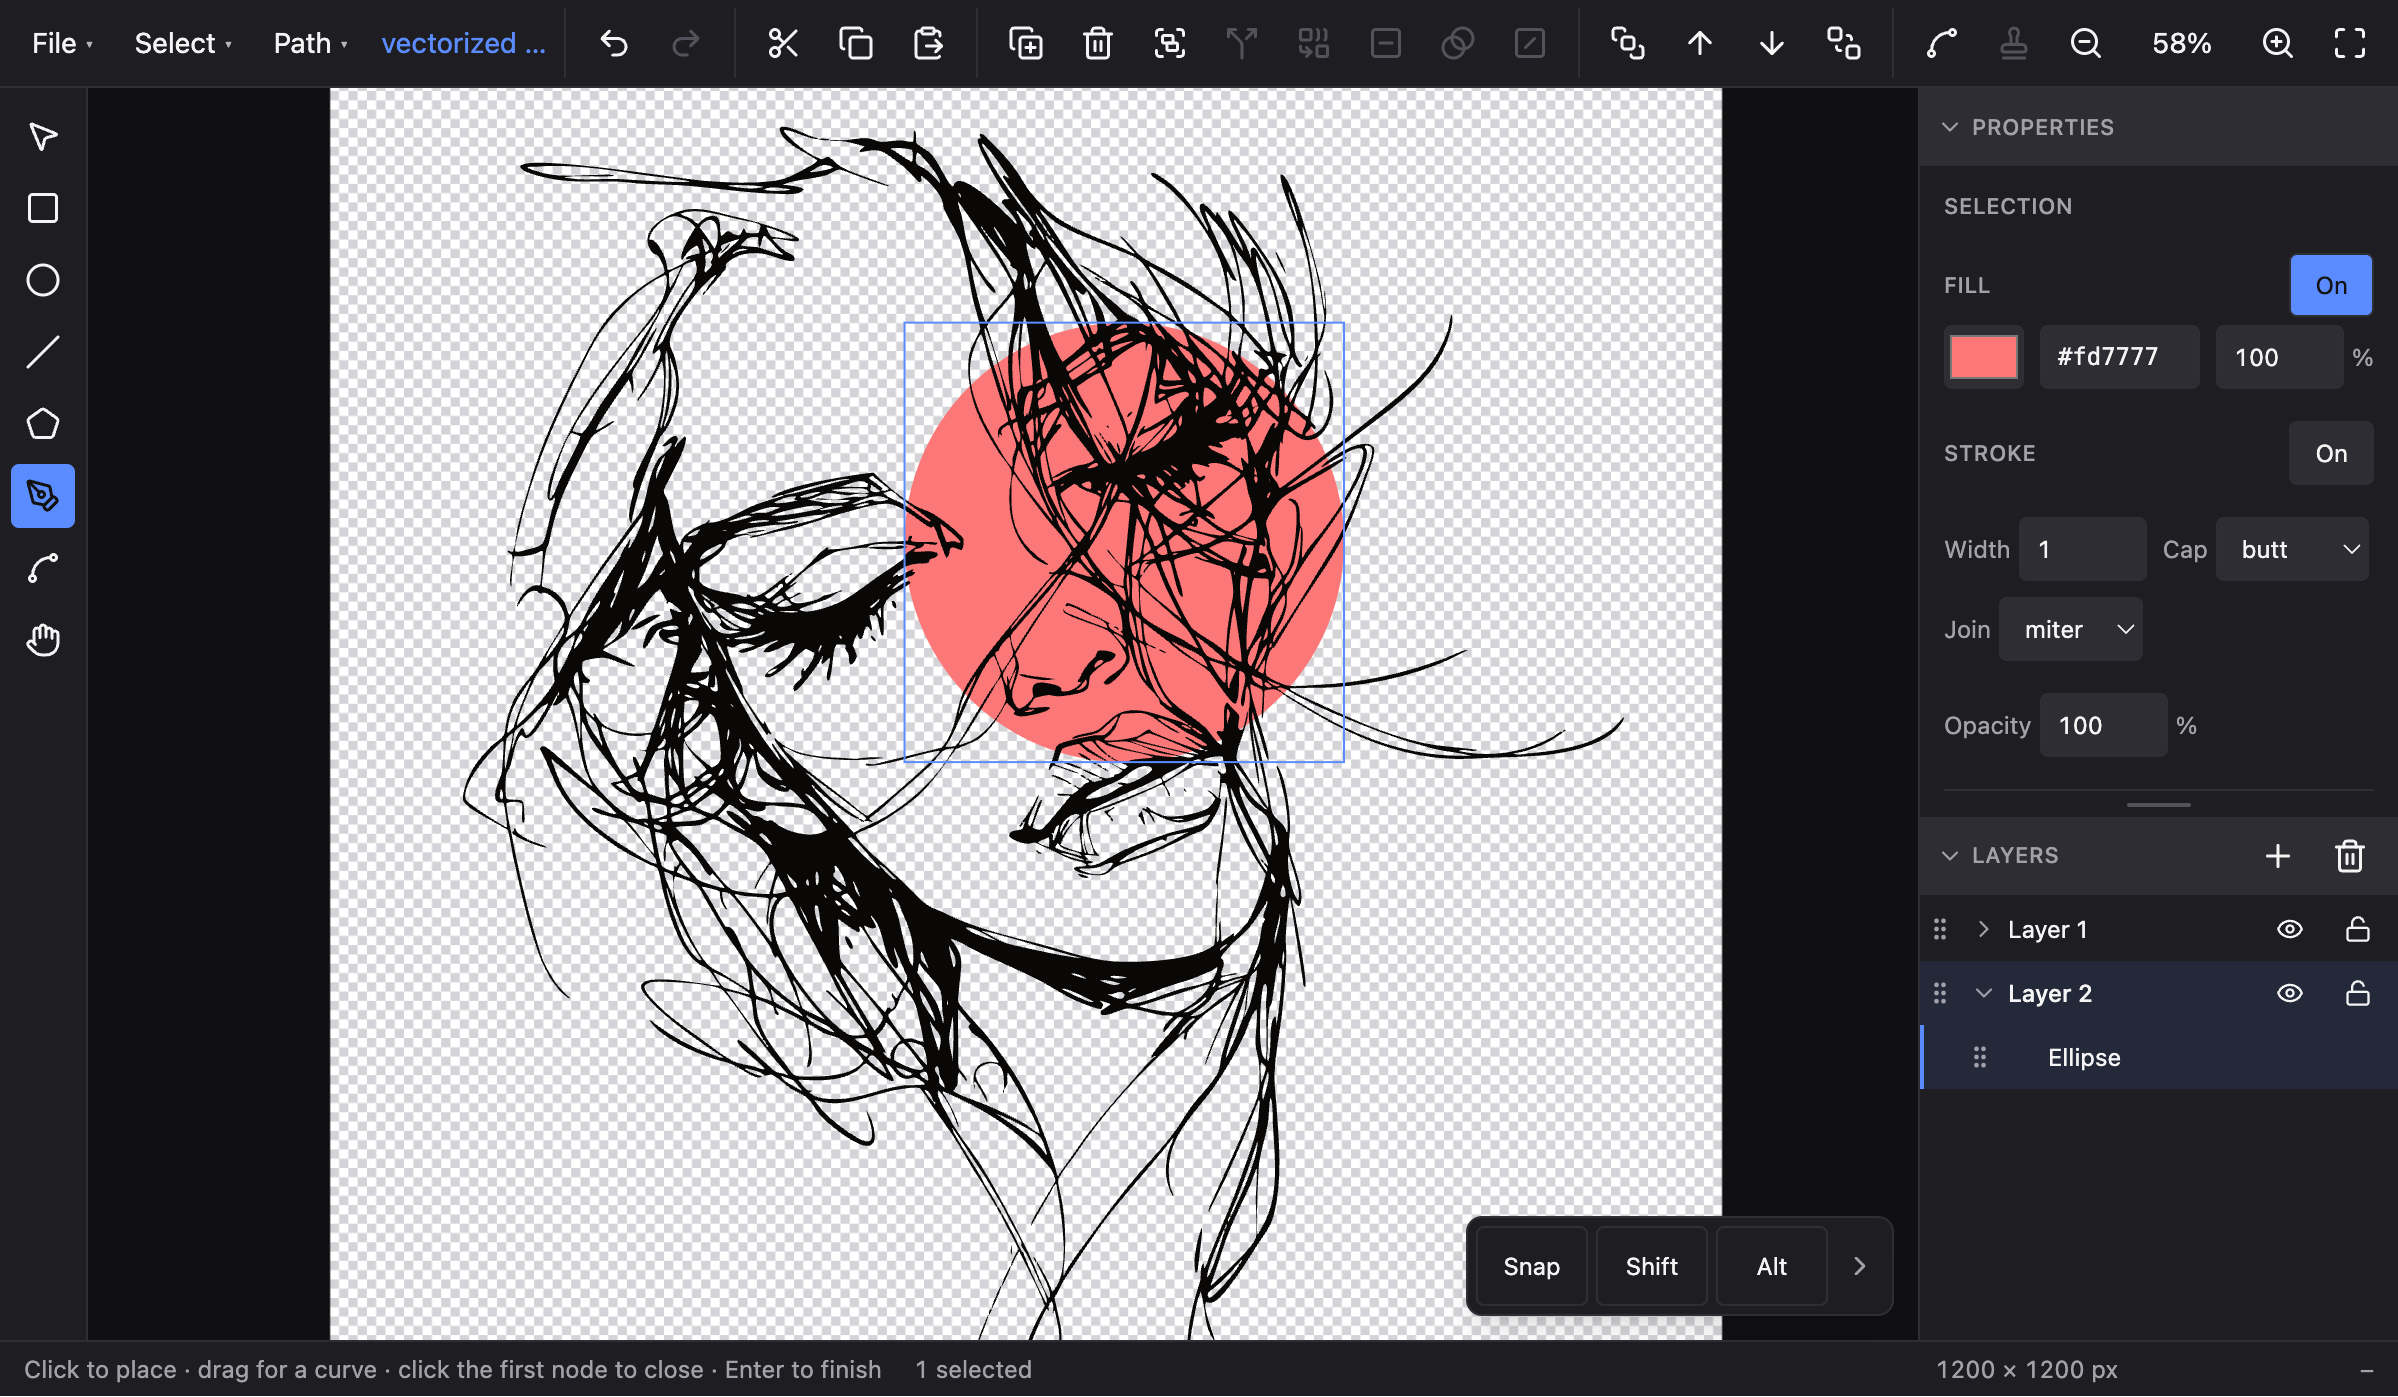
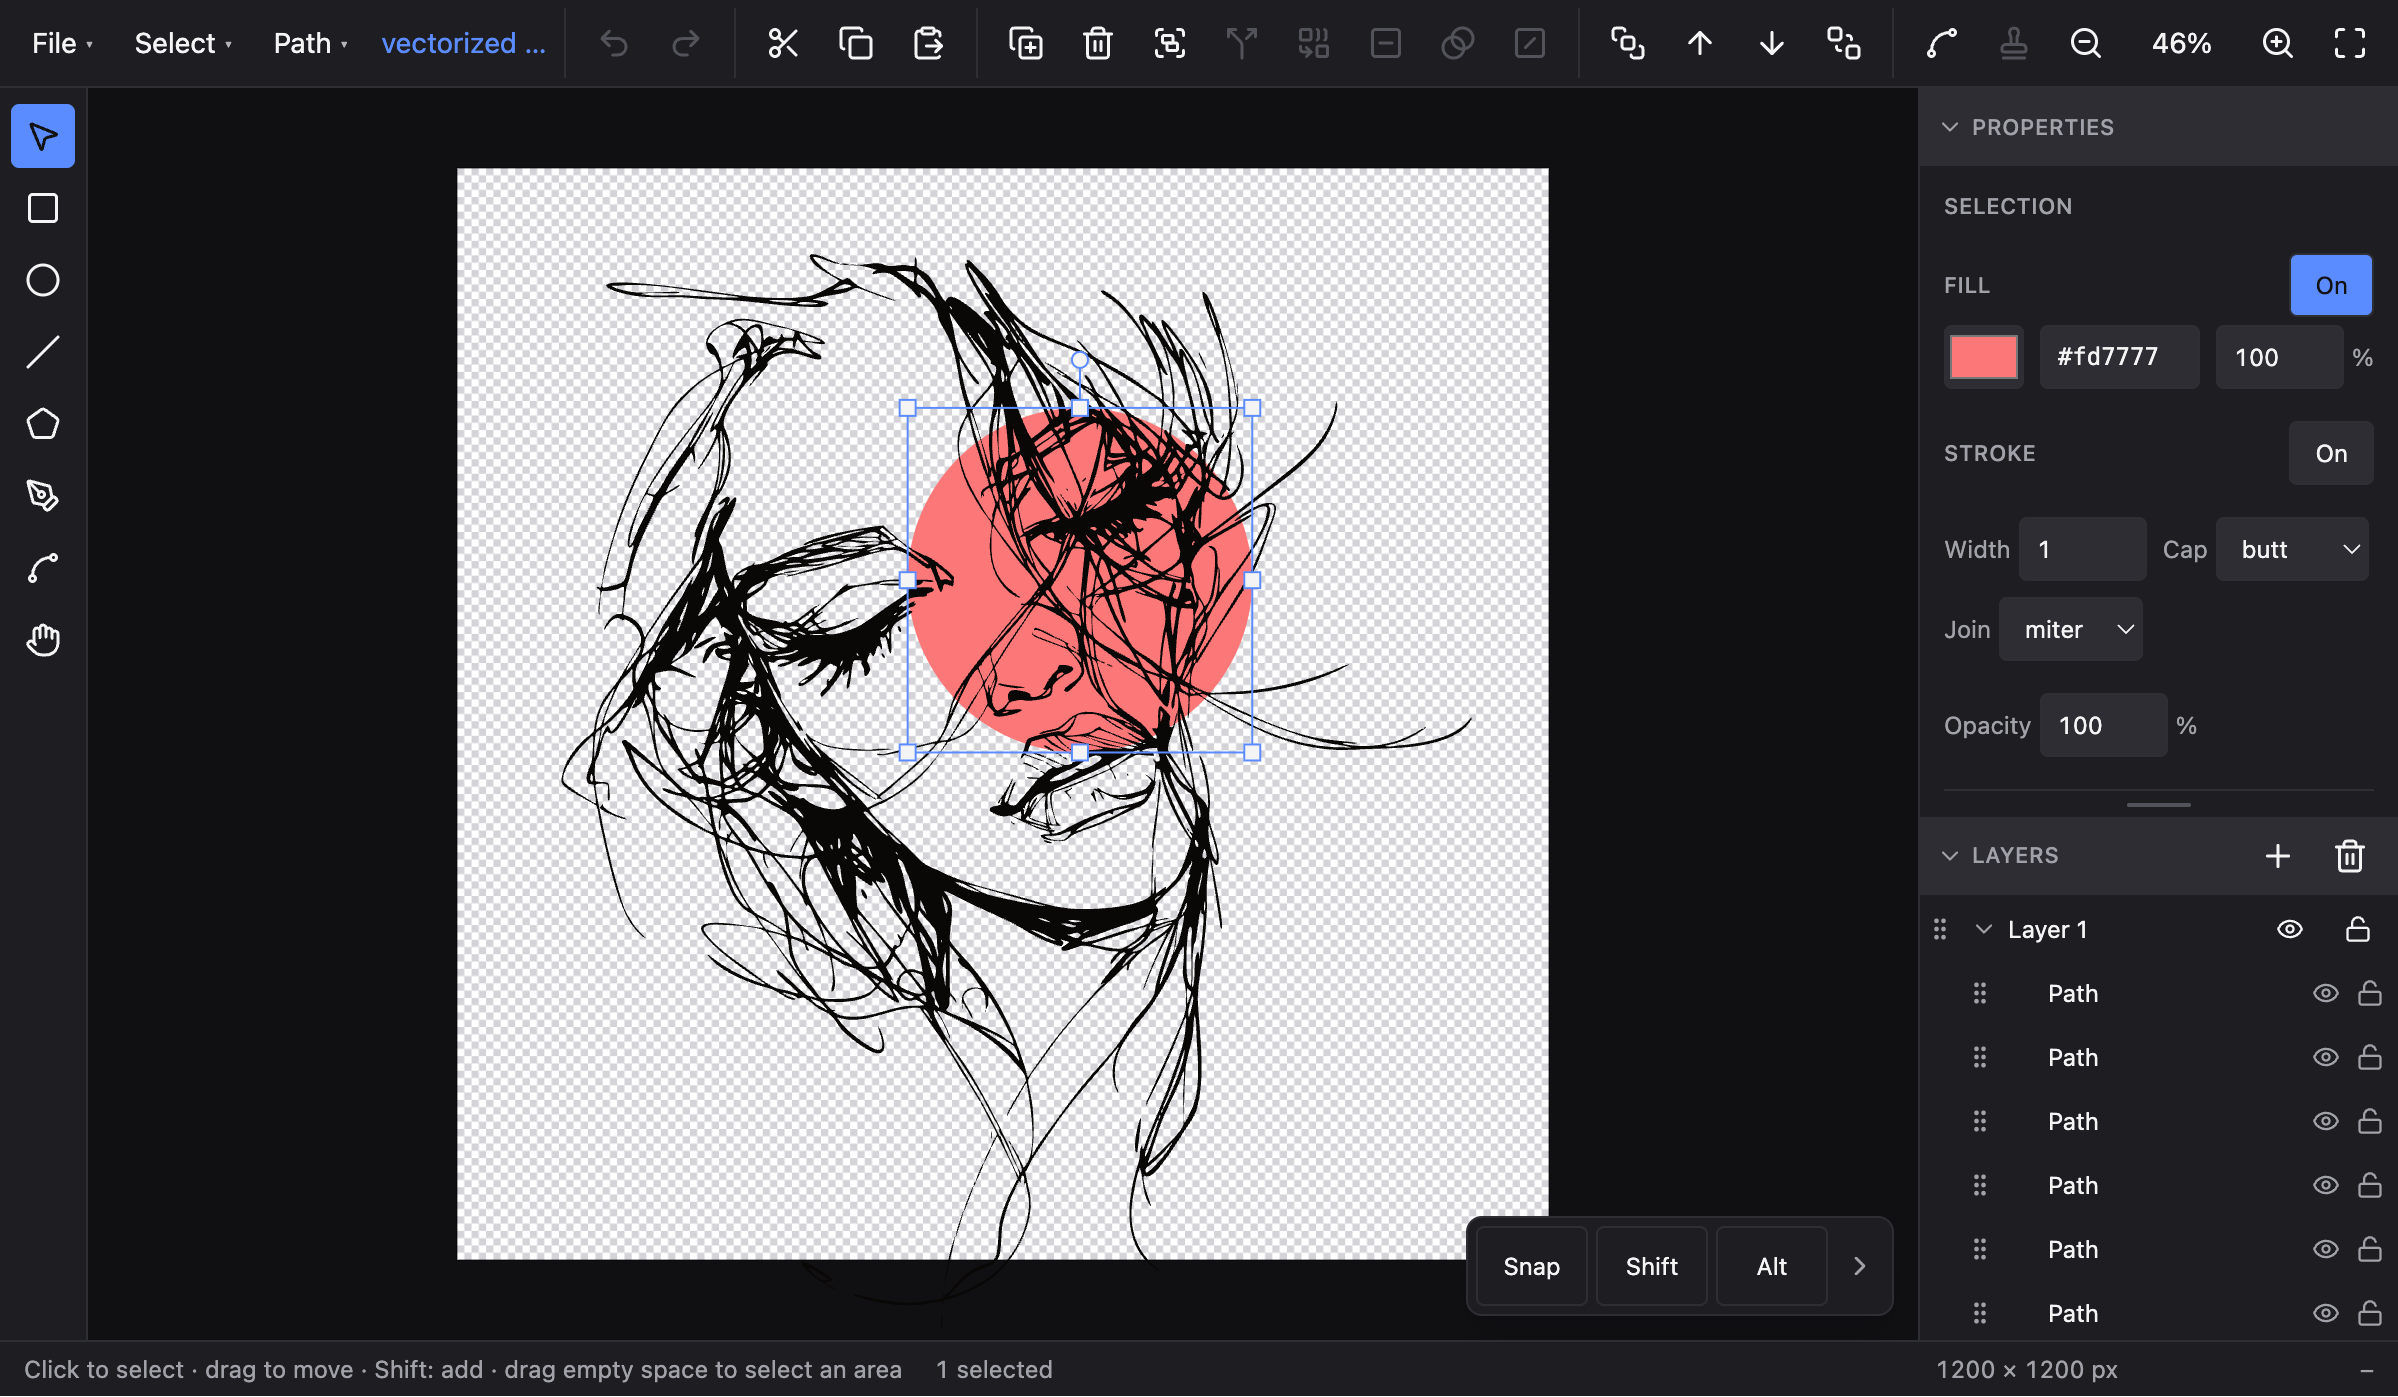
docs: new screenshot, and drop the light theme from the roadmap
The screenshot now shows a selected shape with its handles and the per-object
eye and lock on every layer row, which the previous one predated.

diff --git a/README.md b/README.md
@@ -8,7 +8,7 @@ Your document is a plain `.svg` file: open it in any browser or design tool.
 
 **[Try it → slop-vector-editor.meigo.workers.dev](https://slop-vector-editor.meigo.workers.dev)**
 
-![The editor with a vectorised drawing open: tool strip, canvas, properties and layers panels, and the on-screen modifier pad](docs/screenshot.png)
+![The editor with a vectorised drawing open: tool strip, canvas with a selected ellipse, the properties and layers panels, and the on-screen modifier pad](docs/screenshot.png)
 
 ## Status
 
@@ -87,8 +87,7 @@ Early development. What works today:
 ## Roadmap
 
 Unplanned: text; gradients; a freehand pencil/brush tool; PNG export; grid and smart guides;
-multiple artboards; masks/clipping; align & distribute; a light theme; system-clipboard image
-paste.
+multiple artboards; masks/clipping; align & distribute; system-clipboard image paste.
 
 ## Development
 
